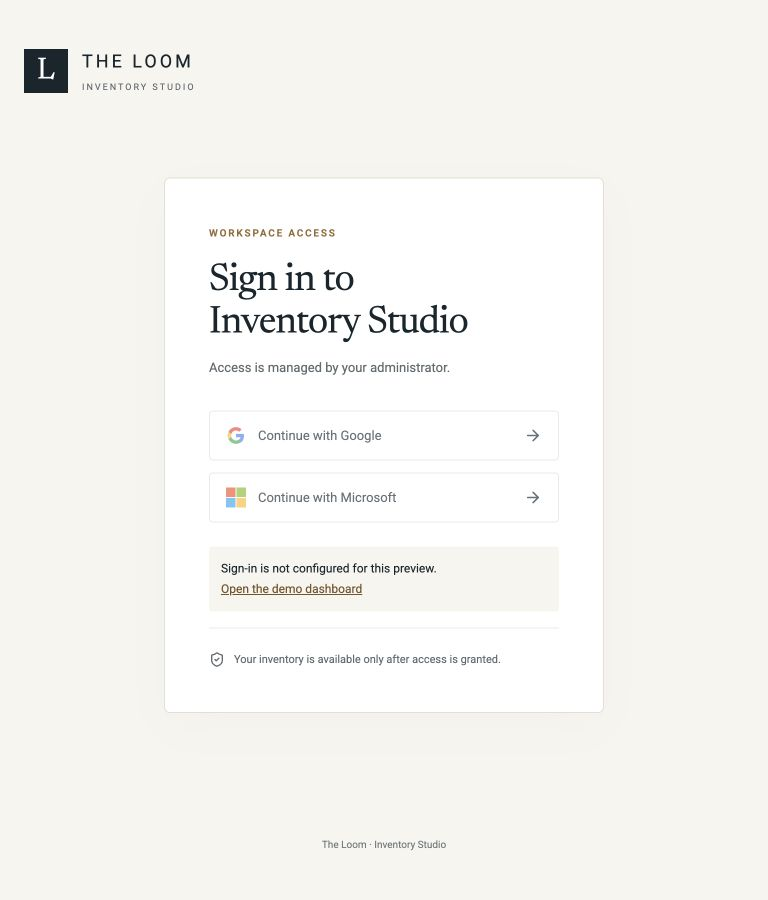
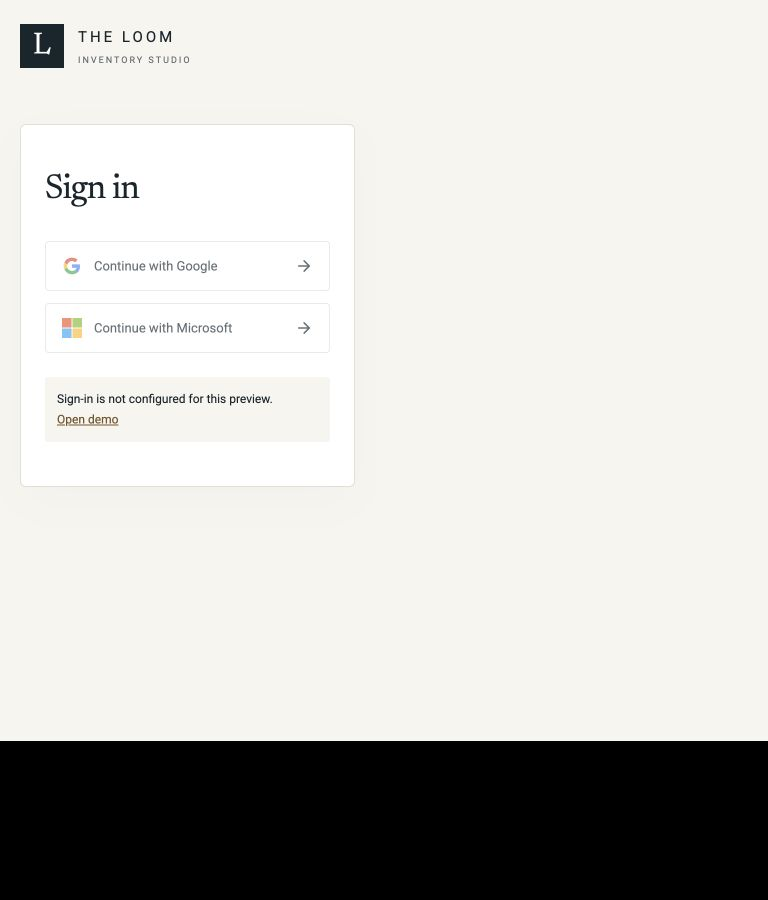
feat: add visible logout and simplify login copy

diff --git a/components/login-form.tsx b/components/login-form.tsx
@@ -1,7 +1,7 @@
 "use client";
 import { useState } from "react";
 import { useSearchParams } from "next/navigation";
-import { ArrowRight, ShieldCheck, LoaderCircle } from "lucide-react";
+import { ArrowRight, LoaderCircle } from "lucide-react";
 import { authClient } from "@/lib/auth-client";
 import { safeReturnTo } from "@/lib/auth-redirect";
 export function LoginForm() {
@@ -26,9 +26,7 @@ export function LoginForm() {
         errorCallbackURL: "/login?error=signin",
       });
       if (result.error)
-        throw new Error(
-          "Sign-in could not be completed. Your administrator may need to configure this provider.",
-        );
+        throw new Error("Sign-in could not be completed. Please try again.");
     } catch (e) {
       setError(
         e instanceof Error ? e.message : "Sign-in failed. Please try again.",
@@ -45,13 +43,7 @@ export function LoginForm() {
         </span>
       </a>
       <section className="login-card" aria-labelledby="login-title">
-        <span className="login-eyebrow">WORKSPACE ACCESS</span>
-        <h1 id="login-title">
-          Sign in to
-          <br />
-          Inventory Studio
-        </h1>
-        <p>Access is managed by your administrator.</p>
+        <h1 id="login-title">Sign in</h1>
         <div className="login-options">
           <button
             disabled={!configured || !!pending}
@@ -111,14 +103,10 @@ export function LoginForm() {
           <div className="login-notice" role="status">
             Sign-in is not configured for this preview.{" "}
             {process.env.NEXT_PUBLIC_DATA_MODE !== "convex" && (
-              <a href="/">Open the demo dashboard</a>
+              <a href="/">Open demo</a>
             )}
           </div>
         )}
-        <div className="login-security">
-          <ShieldCheck size={16} aria-hidden="true" />
-          <span>Your inventory is available only after access is granted.</span>
-        </div>
       </section>
       <footer className="login-footer">The Loom · Inventory Studio</footer>
     </main>

diff --git a/tests/logout.test.ts b/tests/logout.test.ts
@@ -1,0 +1,40 @@
+import { expect, test, vi } from "vitest";
+import { logoutWorkspace } from "../lib/logout";
+
+test("demo exits to login without making an authentication request", async () => {
+  const signOut = vi.fn();
+  const redirect = vi.fn();
+  await logoutWorkspace(false, signOut, redirect);
+  expect(signOut).not.toHaveBeenCalled();
+  expect(redirect).toHaveBeenCalledWith("/login");
+});
+
+test("authenticated logout waits for session revocation before navigation", async () => {
+  const redirect = vi.fn();
+  let finish!: (value: { error?: unknown }) => void;
+  const signOut = vi.fn(
+    () =>
+      new Promise<{ error?: unknown }>((resolve) => {
+        finish = resolve;
+      }),
+  );
+  const logout = logoutWorkspace(true, signOut, redirect);
+  expect(redirect).not.toHaveBeenCalled();
+  finish({});
+  await logout;
+  expect(signOut).toHaveBeenCalledOnce();
+  expect(redirect).toHaveBeenCalledWith("/login");
+});
+
+test.each(["response", "network"])(
+  "failed %s logout does not claim success",
+  async (failure) => {
+    const signOut =
+      failure === "response"
+        ? vi.fn().mockResolvedValue({ error: { message: "Unavailable" } })
+        : vi.fn().mockRejectedValue(new Error("Network failed"));
+    const redirect = vi.fn();
+    await expect(logoutWorkspace(true, signOut, redirect)).rejects.toThrow();
+    expect(redirect).not.toHaveBeenCalled();
+  },
+);

diff --git a/components/convex-dashboard.tsx b/components/convex-dashboard.tsx
@@ -14,7 +14,6 @@ import {
   Download,
   Menu,
   Plus,
-  LogOut,
   RefreshCw,
 } from "lucide-react";
 import { api } from "@/convex/_generated/api";
@@ -22,7 +21,7 @@ import type { Id } from "@/convex/_generated/dataModel";
 import type { Filters, Settings } from "@/lib/types";
 import type { ReportName, ReportRow, ReportEnvelope } from "@/lib/report-types";
 import { ConvexInventoryProvider } from "@/lib/providers/convex";
-import { authClient } from "@/lib/auth-client";
+import { LogoutButton } from "./logout-button";
 import { defaults, exportCsv, money } from "@/lib/analytics";
 import { Button } from "./ui/button";
 import {
@@ -359,20 +358,7 @@ export default function ConvexDashboard() {
                 ? "Synthetic demo"
                 : "Inventory workspace"}
             </span>
-            <Button
-              variant="ghost"
-              size="sm"
-              onClick={async () => {
-                setRunId(null);
-                setProductId(null);
-                setOrgId(null);
-                await authClient.signOut();
-                window.location.assign("/login");
-              }}
-            >
-              <LogOut size={14} />
-              Sign out
-            </Button>
+            <LogoutButton />
           </div>
         </header>
         <main id="main-content">

diff --git a/components/logout-button.tsx b/components/logout-button.tsx
@@ -1,0 +1,38 @@
+"use client";
+import { useState } from "react";
+import { LogOut } from "lucide-react";
+import { authClient } from "@/lib/auth-client";
+import { logoutWorkspace } from "@/lib/logout";
+import { Button } from "./ui/button";
+
+export function LogoutButton() {
+  const [pending, setPending] = useState(false);
+  const [failed, setFailed] = useState(false);
+  async function logout() {
+    setPending(true);
+    setFailed(false);
+    try {
+      await logoutWorkspace(
+        process.env.NEXT_PUBLIC_DATA_MODE === "convex",
+        () => authClient.signOut(),
+        (path) => window.location.replace(path),
+      );
+    } catch {
+      setFailed(true);
+      setPending(false);
+    }
+  }
+  return (
+    <div className="logout-control">
+      <Button variant="ghost" size="sm" disabled={pending} onClick={logout}>
+        <LogOut size={14} aria-hidden="true" />
+        {pending ? "Logging out…" : "Log out"}
+      </Button>
+      {failed && (
+        <span className="logout-error" role="alert">
+          Could not log out. Please try again.
+        </span>
+      )}
+    </div>
+  );
+}

diff --git a/components/workspace-gate.tsx b/components/workspace-gate.tsx
@@ -1,8 +1,8 @@
 "use client";
-import { type ReactNode, useEffect, useState } from "react";
+import { type ReactNode, useEffect } from "react";
 import { useConvexAuth, useQuery } from "convex/react";
 import { api } from "@/convex/_generated/api";
-import { authClient } from "@/lib/auth-client";
+import { LogoutButton } from "./logout-button";
 import { useRouter } from "next/navigation";
 export function WorkspaceGate({ children }: { children: ReactNode }) {
   if (process.env.NEXT_PUBLIC_DATA_MODE !== "convex") return children;
@@ -39,15 +39,7 @@ function AuthenticatedGate({ children }: { children: ReactNode }) {
             Your account is signed in. Ask your administrator to grant workspace
             access.
           </p>
-          <button
-            className="login-provider"
-            onClick={async () => {
-              await authClient.signOut();
-              window.location.assign("/login");
-            }}
-          >
-            Sign out
-          </button>
+          <LogoutButton />
         </section>
       </main>
     );

diff --git a/components/dashboard.tsx b/components/dashboard.tsx
@@ -55,6 +55,7 @@ import {
   exportCsv,
 } from "@/lib/analytics";
 import { Button } from "./ui/button";
+import { LogoutButton } from "./logout-button";
 import {
   Dialog,
   DialogContent,
@@ -803,7 +804,7 @@ export default function Dashboard() {
             <span className="demo-dot" /> <span>Synthetic demo</span>
             <span className="header-divider" />
             <span>06 Oct 2026</span>
-            <span className="avatar small">AM</span>
+            <LogoutButton />
           </div>
         </header>
         <main id="main-content">

diff --git a/lib/logout.ts b/lib/logout.ts
@@ -1,0 +1,14 @@
+type SignOut = () => Promise<{ error?: unknown }>;
+
+export async function logoutWorkspace(
+  authenticated: boolean,
+  signOut: SignOut,
+  redirect: (path: string) => void,
+) {
+  if (authenticated) {
+    const result = await signOut();
+    if (result.error) throw new Error("Could not log out. Please try again.");
+  }
+  // A full navigation clears client-side inventory and authentication caches.
+  redirect("/login");
+}

diff --git a/app/globals.css b/app/globals.css
@@ -256,6 +256,23 @@ nav {
   font-size: 10px;
   color: var(--muted);
 }
+.logout-control {
+  position: relative;
+  flex-shrink: 0;
+}
+.logout-error {
+  position: absolute;
+  right: 0;
+  top: 100%;
+  z-index: 50;
+  width: 230px;
+  padding: 12px;
+  background: white;
+  border: 1px solid var(--line);
+  border-radius: 4px;
+  color: #9b3030;
+  font-size: 12px;
+}
 .header-divider {
   height: 14px;
   width: 1px;

diff --git a/docs/QA.md b/docs/QA.md
@@ -91,3 +91,11 @@ This record supersedes earlier statements that there is no backend. The SQL/Fast
 Additional browser check: the add-product drawer fits 375px with no document overflow. Demo reset restored the original catalogue and thresholds through Settings.
 
 Final independent review found six important issues; all were fixed in one regression-tested pass. Eleven reproductions first failed and then passed: complete import manifests; atomic/idempotent publication; receipt quantity, variant, destination, unique movement and totals; reservation/balance overflow; late-catalogue drawer resolution; and full-cohort size ratios. Final suite: **69 Vitest + 22 Python checks passed**, TypeScript passed, and stricter local reconciliation preserved all seeded totals. No findings were deferred.
+
+## Login and logout revision — 8 October 2026
+
+- Added a visible **Log out** button to demo and authenticated dashboards, shared with the access-pending screen. Demo exits to `/login`; authenticated mode awaits Better Auth session revocation before a full navigation clears client caches. Failed requests stay on the page with an accessible error and retry button.
+- Simplified the login heading to **Sign in** and removed the workspace-access eyebrow, administrator paragraph and access-granted footer. The unconfigured-preview notice remains accurate.
+- All 73 Vitest tests, TypeScript and the demo production build passed. Four added tests cover demo exit, session-revocation ordering and both returned and thrown logout errors.
+- Browser verified demo logout, return via Open demo, keyboard focus and Enter activation at 375px without horizontal overflow. Updated login screenshots at 375/768/1024/1440px and added `screenshots/logout-375.jpg`.
+- Live OAuth logout remains subject to the existing provider-configuration deployment gate; no live signed-in session was available for this browser check.
